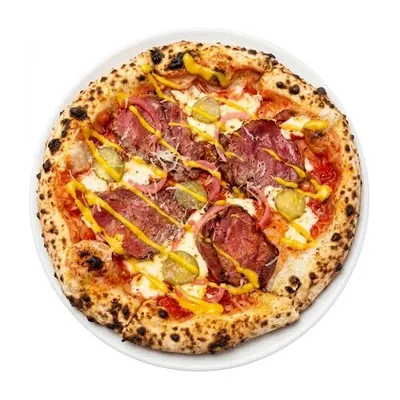
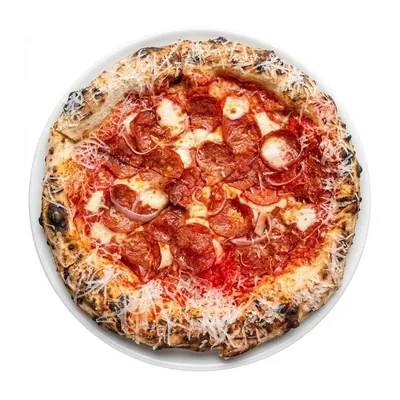
Foto baru untuk Hot Honey Ricotta dan Double Pepperoni

diff --git a/menu.js b/menu.js
@@ -33,9 +33,9 @@ const SECTIONS = [
     judul: "Special Pies",
     catatan: "One size, 28 cm. Fermented dough, baked to order.",
     items: [
-      { id: "hhr", img: "img/hhr.webp", nama: "Hot Honey Ricotta", harga: 80000, tag: "fav",
+      { id: "hhr", img: "img/hhr.webp?v=20261119", nama: "Hot Honey Ricotta", harga: 80000, tag: "fav",
         ket: "Pomodoro, mozzarella, pepperoni, ricotta, hot honey, parmigiano, olive oil." },
-      { id: "dpep", img: "img/dpep.webp", nama: "Double Pepperoni", harga: 85000, tag: ["pick", "new"],
+      { id: "dpep", img: "img/dpep.webp?v=20261119", nama: "Double Pepperoni", harga: 85000, tag: ["pick", "new"],
         ket: "Pomodoro, mozzarella, pepperoni, onion, parmesan, olive oil." },
       { id: "bpp", img: "img/bpp.webp", nama: "Beef Pastrami Pickles", harga: 88000, tag: "pick",
         ket: "Pomodoro, mozzarella, beef pastrami, pickled red onion and gherkin, parmigiana." },
